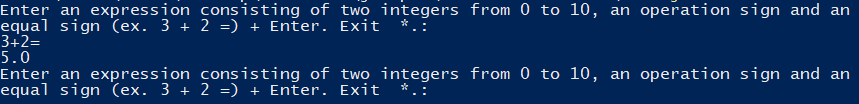
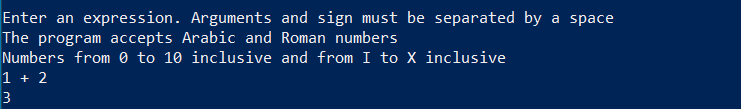
modified and new file

diff --git a/src/Main.java b/src/Main.java
@@ -1,26 +1,25 @@
-public class Main {
-    private static final char exitCharacter = '*';
+import java.io.IOException;
+import java.util.Scanner;
 
-    public static void main(String[] args) {
-        DataReader reader = new DataReader(exitCharacter);
-        while (true) {
-            try {
-                reader.read();
-            } catch (RuntimeException e) {
-                System.err.println(e.getMessage());
-                continue;
-            }
-            if (reader.isExitFlag()) {
-                System.out.println("The expression contains an exit sign: " + exitCharacter);
-                System.out.println("End of the program.");
-                break;
-            }
-            double result = Calculator.calculate(reader.getVar1(), reader.getVar2(), reader.getOper());
+public class Main {
+
+    public static void main(String[] args) throws IOException {
+
+        System.out.println("Введите выражение. Аргументы и знак должны быть разделены пробелом");
+        System.out.println("Программа принимает арабские и римские числа");
+        System.out.println("Числа от 0 до 10 включительно и от I до X включительно");
+		System.out.println(" ");
+        System.out.println("Enter an expression. Arguments and sign must be separated by a space");
+        System.out.println("The program accepts Arabic and Roman numbers");
+        System.out.println("Numbers from 0 to 10 inclusive and from I to X inclusive");
+
+        try (Scanner sc = new Scanner(System.in)) {
+            String result = new Calculator().calculate(sc.nextLine().trim().split(" "));
             System.out.println(result);
+        } catch (Exception e) {
+            System.out.println("Введены неверные данные");
         }
+
     }
 
 }
-
-
-

diff --git a/src/Calculator.java b/src/Calculator.java
@@ -1,15 +1,31 @@
 public class Calculator {
-    private Calculator(){}
 
-    public static double calculate(int number1, int number2, char operation){
-        int result = 0;
-        switch (operation){
-            case '+': result = number1 + number2; break;
-            case '-': result = number1 - number2; break;
-            case '*': result = number1 * number2; break;
-            case '/': result = number1 / number2; break;
-            default:throw  new IllegalArgumentException("Invalid operation sign");
+    private final Converter converter;
+
+public Calculator() {
+        this.converter = new Converter();
         }
-        return result;
+
+public String calculate(String [] args) {
+        if (args.length!=3) throw new IllegalArgumentException();
+        try {
+        int result = calculate(Integer.parseInt(args[0]), Integer.parseInt(args[2]), args[1]);
+        return String.valueOf(result);
+        } catch (NumberFormatException e) {
+        int result = calculate (converter.toArabic(args[0]), converter.toArabic(args[2]), args[1]);
+        return converter.toRoman(result);
+        }
     }
+
+private int calculate(int first, int second, String arithmetic) {
+        if (first < 1 || first > 10 || second < 1 || second > 10) throw new IllegalArgumentException();
+        switch (arithmetic) {
+        case "+": return first + second;
+        case "/": return first / second;
+        case "*": return first * second;
+        case "-": return first - second;
+default: throw new IllegalArgumentException();
+        }
+    }
+
 }

diff --git a/src/Converter.java b/src/Converter.java
@@ -1,0 +1,42 @@
+import java.util.Map;
+import java.util.TreeMap;
+import java.util.HashMap;
+
+public class Converter {
+
+    private static final TreeMap<Integer, String> ARABIC = new TreeMap<>();
+    static {
+        ARABIC.put(100, "C");
+        ARABIC.put(90, "XC");
+        ARABIC.put(50, "L");
+        ARABIC.put(40, "XL");
+        ARABIC.put(10, "X");
+        ARABIC.put(9, "IX");
+        ARABIC.put(5, "V");
+        ARABIC.put(4, "IV");
+        ARABIC.put(1, "I");
+    }
+    private static final Map<String, Integer> ROMAN = new HashMap<>();
+    static {
+        ROMAN.put("I",1);
+        ROMAN.put("II",2);
+        ROMAN.put("III",3);
+        ROMAN.put("IV",4);
+        ROMAN.put("V",5);
+        ROMAN.put("VI",6);
+        ROMAN.put("VII",7);
+        ROMAN.put("VIII",8);
+        ROMAN.put("IX",9);
+        ROMAN.put("X",10);
+    }
+
+    public String toRoman(int number) {
+        int n = ARABIC.floorKey(number);
+        return number == n ? ARABIC.get(number) : ARABIC.get(n) + toRoman(number - n);
+    }
+
+    public int toArabic(String number) {
+        return ROMAN.get(number);
+    }
+
+}

diff --git a/README.md b/README.md
@@ -1,5 +1,7 @@
 # Console Calculator
 Console Calculator in Java
 
-src> java Main: 
-![alt text](https://github.com/droidhuman/ConsoleCalculator/blob/master/screenshot/screenshot.PNG?raw=true "Logo Title Text 1")
+src> java Main
+![alt text](https://github.com/droidhuman/ConsoleCalculator/blob/master/screenshot/screenshot.PNG?raw=true "ARABIC number"
+
+![alt text](https://github.com/droidhuman/ConsoleCalculator/blob/master/screenshot/screenshot2.PNG?raw=true "ROMAN number"
